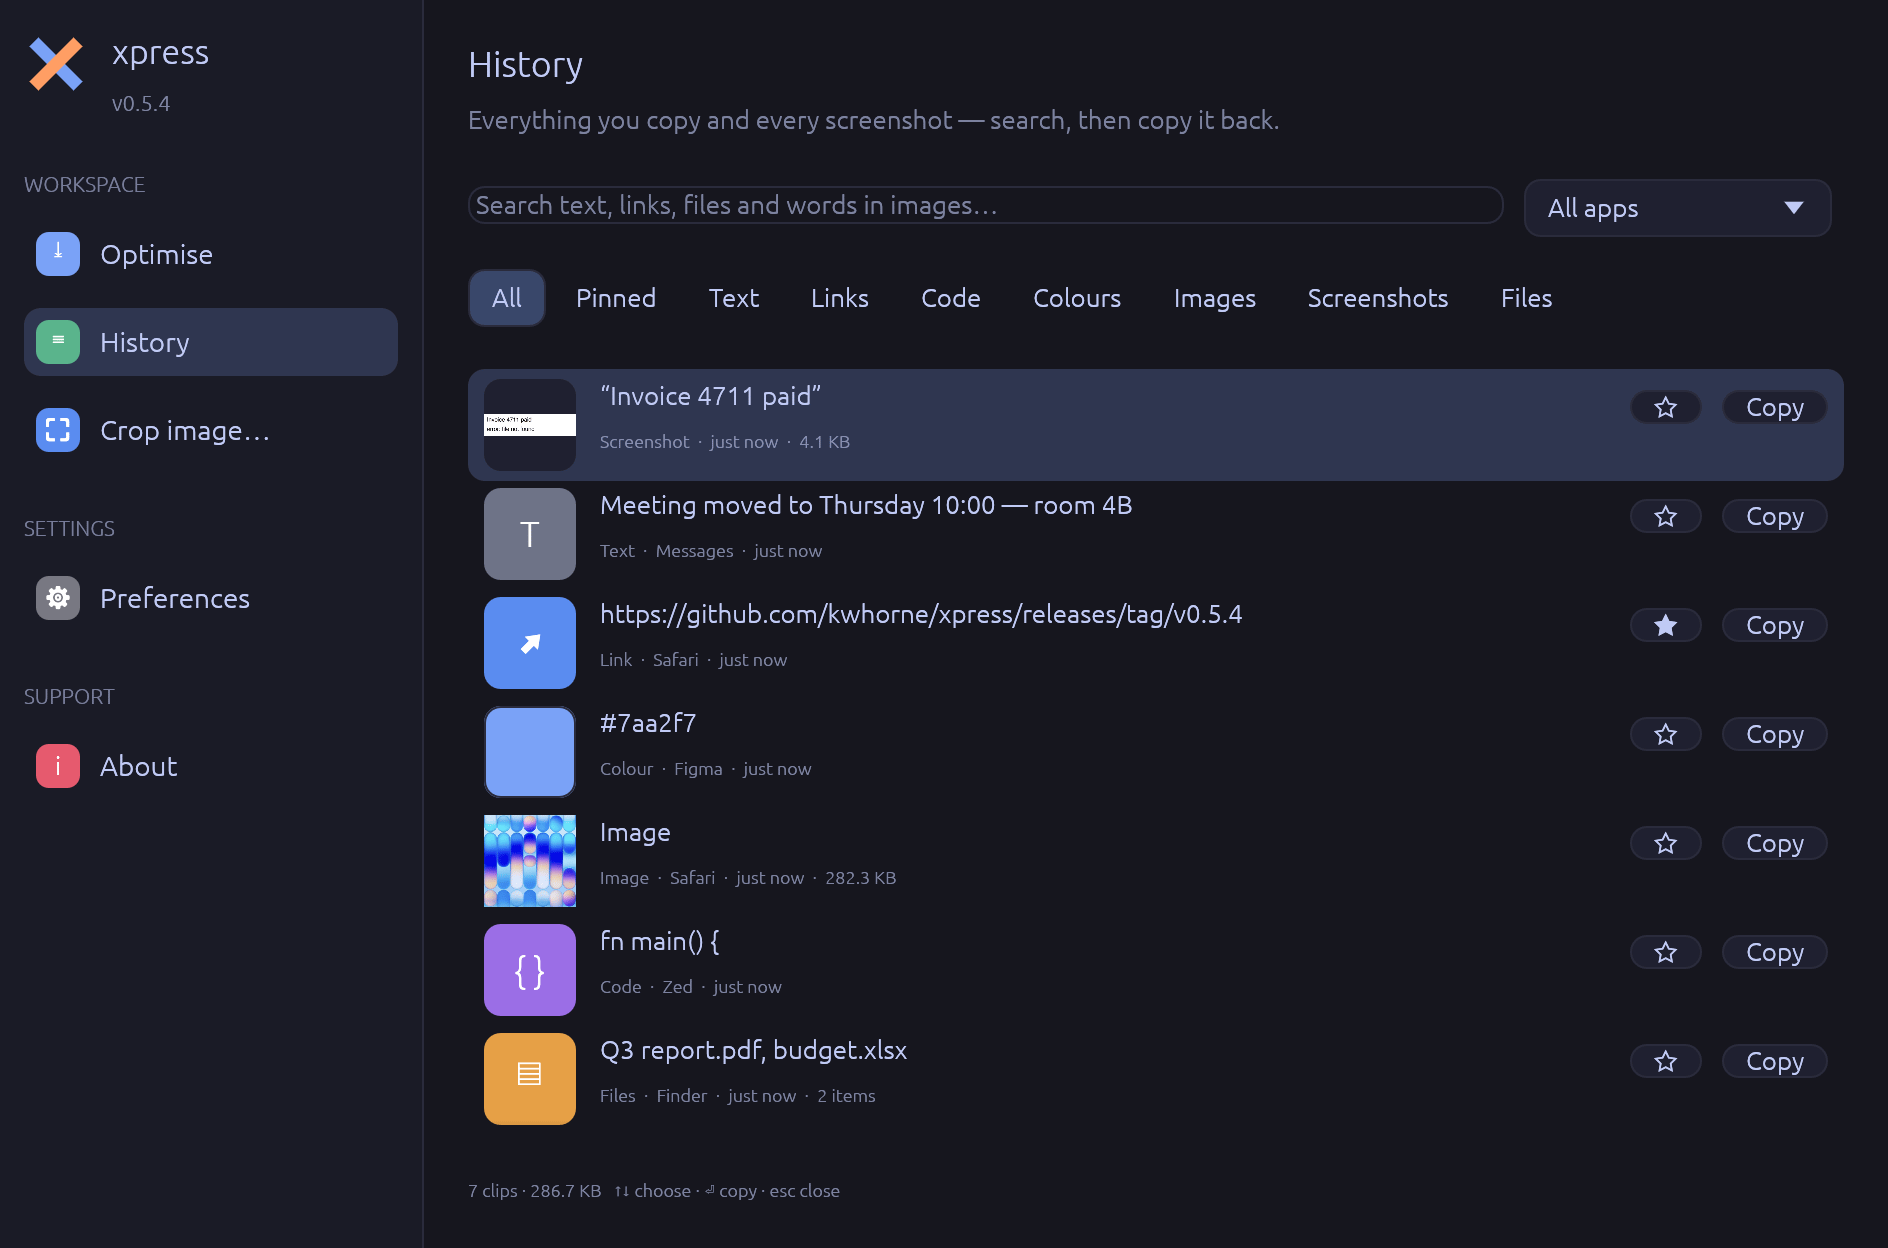
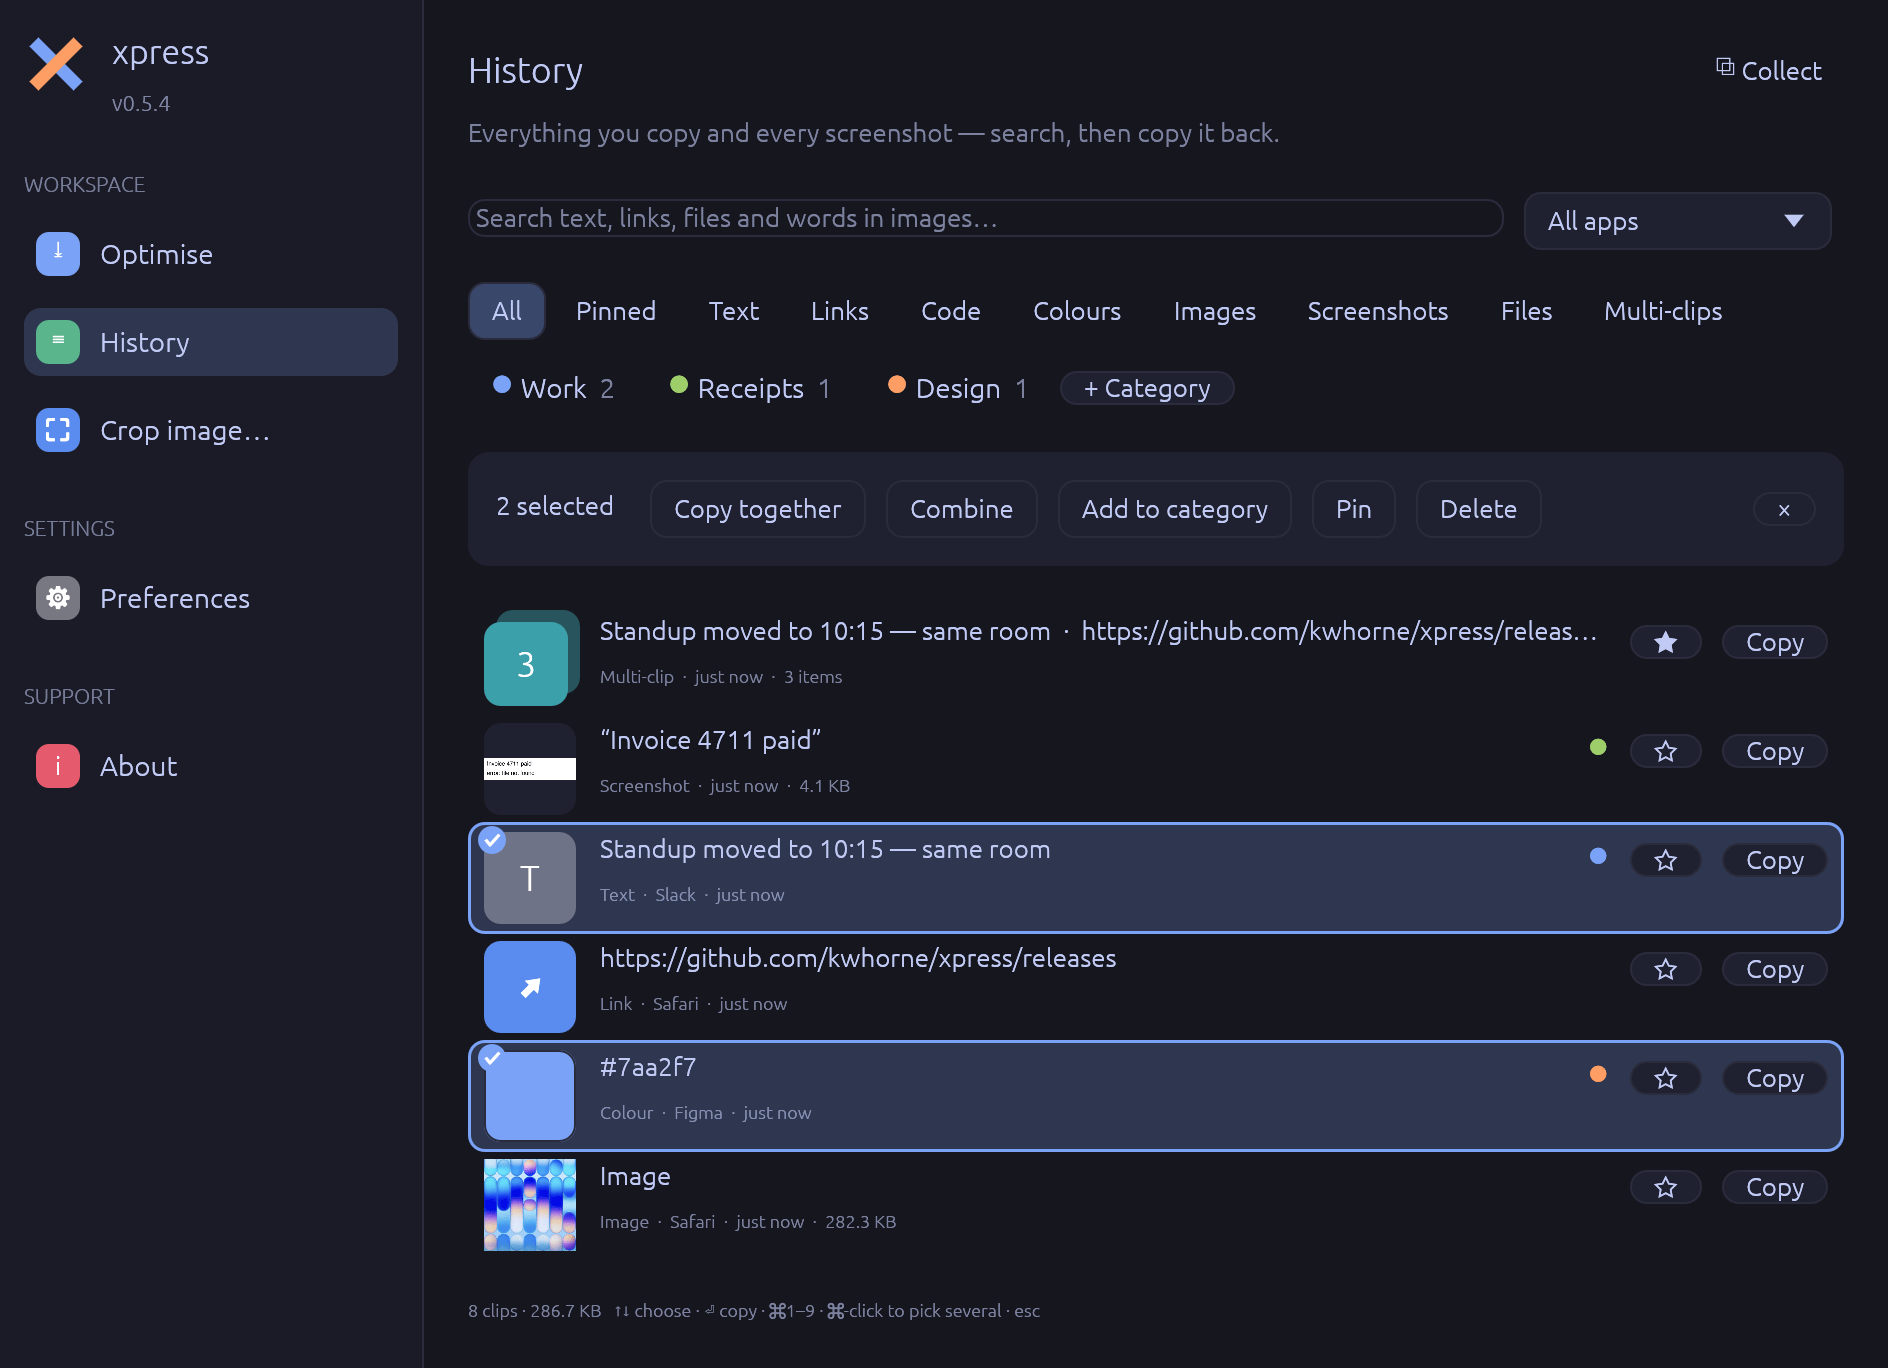
Docs: multi-clips, categories, paste directly

diff --git a/docs/history.md b/docs/history.md
@@ -31,11 +31,12 @@ history opens with the cursor in the search field:
 1. **Type** a few letters — words match by prefix and in any order, so
    `inv 47` finds “Invoice 4711”. Accents don't matter (`cafe` finds “café”).
 2. **↑ / ↓** to choose, **⏎** to copy. xpress hides itself and puts you back in
-   the app you came from — press **⌘V** to paste.
-3. **Esc** clears the search, or closes the window when it's empty.
+   the app you came from — press **⌘V** to paste (or let xpress paste for you,
+   see [Paste directly](#paste-directly)).
+3. **Esc** clears the selection or the search, or closes the window.
 
-Double-clicking a clip does the same as ⏎; **Copy** on a row copies it and
-leaves the window open.
+**⌘1 … ⌘9** copy the first nine clips in one go. Double-clicking a clip does the
+same as ⏎; **Copy** on a row copies it and leaves the window open.
 
 The search covers the text of each clip, the **text recognised in images**,
 file names and paths, and the name of the app it came from.
@@ -63,9 +64,72 @@ line, and *kind · app · when · size*. Copying a clip again moves it to the to
 | Copy | Put it on the clipboard |
 | Copy text in image | Copy the words recognised in a screenshot or image |
 | Open link | Open a link clip in your browser |
+| Show items | For a multi-clip: list what's in it (← Back returns) |
 | Show in Finder | Reveal a copied file, or the stored image |
 | Pin / Unpin | Pinned clips are never removed automatically (also ☆ on the row) |
+| Categories ▸ | Tick the categories it belongs to, or make a new one |
 | Delete | Remove it from the history |
+
+## Several clips at once: multi-clips
+
+A **multi-clip** holds several clips — text, links, images, files, from
+different apps — to paste **all at once**.
+
+**Pick clips and combine them.** **⌘-click** rows to pick them (in the order
+you want them pasted), or **⇧-click** to pick a range. A bar appears:
+
+| Button | Does |
+|--------|------|
+| **Copy together** (or ⏎) | Make a multi-clip of the picked clips and copy it |
+| **Combine** | Make the multi-clip and keep it in the history |
+| **Add to category** | Put all picked clips in a category |
+| **Pin**, **Delete** | For all picked clips |
+| **×** | Clear the selection (or press Esc) |
+
+**Or collect as you go.** Click **⧉ Collect** at the top of History (or choose
+*Collect clips* in the ✕ menu), then copy things in any apps as usual: each copy
+is added to one multi-clip. Click **Done** when you have everything.
+
+**What gets pasted:**
+
+- In a plain text field: all the text, links and file paths, one after another.
+- In rich editors (Mail, Notes, Pages, documents in the browser): the text *and*
+  the images, in order.
+- If every item is a file: all the files — paste in Finder to copy them there.
+- In apps that only take a picture: the first image.
+
+A multi-clip shows how many items it has; right-click → *Show items* lists
+them. Its items stay in the history as clips of their own, and are kept as long
+as the multi-clip is (pin the multi-clip to keep it all). Deleting an item takes
+it out of the multi-clip; deleting the multi-clip leaves the items.
+
+## Categories
+
+Group clips your own way — *Work*, *Receipts*, *Design* — under the kind
+filters. Click a category to show only its clips; click it again for all.
+
+- **+ Category** makes one: a name, a colour, and optionally a rule.
+- **Rules** add clips automatically: *Copied in* an app, of a *Kind*, and/or
+  *Containing* words (also words found inside images — a screenshot of a receipt
+  lands in *Receipts* once its text is recognised). Everything set must match.
+  A new rule also sorts the clips already in the history.
+- **By hand**: right-click a clip → *Categories ▸*, or pick several and *Add to
+  category*.
+- **Right-click a category** to edit or delete it. Deleting a category keeps
+  its clips.
+
+Clips show a coloured dot for each category they're in.
+
+## Paste directly
+
+Normally, choosing a clip puts it on the clipboard and steps aside so you press
+⌘V. With **Paste directly** on (Preferences → Clipboard history), xpress presses
+⌘V for you in the app you came from: **⌃⌘V → type → ⏎** and it's pasted.
+
+macOS only allows this with your permission. The first time you switch it on,
+macOS asks; allow **xpress** under **System Settings → Privacy & Security →
+Accessibility**. Until then, Preferences shows a reminder with an *Open
+Settings* button, and xpress only copies.
 
 ## What's recorded, and what isn't
 
@@ -118,7 +182,7 @@ In the `history` folder next to the config files —
 
 | | |
 |---|---|
-| `history.db` | The clips and the search index (SQLite) |
+| `history.db` | The clips, multi-clips, categories and the search index (SQLite) |
 | `images/` | Copied images and screenshots; PNGs are recompressed losslessly, so they take less room than the originals |
 | `thumbs/` | Small previews |
 
@@ -135,10 +199,12 @@ All in **Preferences → Clipboard history**:
 | Clipboard history | off | Record what you copy |
 | Include screenshots | on | Also record new screenshots |
 | Find text in images | on | Recognise words in images (macOS) |
+| Paste directly | off | Paste the chosen clip into the app you were using (needs Accessibility permission) |
 | Keep history | 1 month | How long unpinned clips are kept |
-| Clear… | | Delete all unpinned clips |
+| Clear… | | Delete all unpinned clips (and multi-clips that aren't pinned) |
 
 ## Platforms
 
 Everything above is for **macOS**. On Linux the app records copied **text**
-only, without the source app, and there's no text recognition.
+only, without the source app; there's no text recognition, a multi-clip is
+pasted as text, and *Paste directly* isn't available.

diff --git a/docs/gui.md b/docs/gui.md
@@ -16,6 +16,7 @@ xpress has no Dock icon — look for the **✕** in the menu bar. Its menu has:
 | Open xpress | ⌘⇧X | Bring the window to the front |
 | Optimise clipboard | ⌘⇧O | Optimise the image you copied, and put the smaller one back on the clipboard |
 | Clipboard history | ⌃⌘V | Search what you copied and your screenshots, and copy it back ([History](history.md)) |
+| Collect clips | | Add everything you copy to one multi-clip, to paste together ([multi-clips](history.md#several-clips-at-once-multi-clips)) |
 | Check for updates | | Look for a new version now |
 | Quit xpress | | Quit (closing the window only hides it) |
 
@@ -71,8 +72,9 @@ Finder.
 ## History
 
 Everything you copied and every screenshot you took — once you turn it on —
-with search (including the words inside images), filters by kind and app, and
-pinning. ⌃⌘V opens it from any app. See
+with search (including the words inside images), filters by kind, app and your
+own categories, pinning, multi-clips to paste several things at once, and
+optionally pasting straight into the app you were using. ⌃⌘V opens it from any app. See
 **[Clipboard and screenshot history](history.md)**.
 
 ## Crop image…
@@ -97,7 +99,7 @@ For crops to an exact size or aspect ratio, or batches, use
 | Aggressive by default | off | Start with the aggressive preset. |
 | Float on top | off | Keep the window above other windows. |
 | Default pipeline | `crop(longEdge: 2000) -> convert(to: webp)` | Used when *Pipeline* is switched on. |
-| Clipboard history | off | Record what you copy and your screenshots — with *Include screenshots*, *Find text in images*, *Keep history* and *Clear…*. See [History](history.md#settings). |
+| Clipboard history | off | Record what you copy and your screenshots — with *Include screenshots*, *Find text in images*, *Paste directly*, *Keep history* and *Clear…*. See [History](history.md#settings). |
 
 Settings — these and the compression slider, *Aggressive*, *Convert to* and
 *Pipeline* on the Optimise screen — are saved automatically and restored the

diff --git a/CHANGELOG.md b/CHANGELOG.md
@@ -16,6 +16,19 @@ to [Semantic Versioning](https://semver.org/spec/v2.0.0.html).
   private, and copies made in password managers, are never recorded. Kept for
   a chosen time (default a month, pinned clips forever, at most 2 GB) in a
   local SQLite database. See [docs/history.md](docs/history.md).
+- **Multi-clips**: pick several clips (⌘-click, ⇧-click) and *Copy together*,
+  or *Collect* everything you copy into one — text, links, images and files
+  from different apps, pasted at once (plain text in text fields; text and
+  images in rich editors; all files in Finder).
+- **Categories** for the clipboard history, with colours and optional rules
+  (source app, kind, words — also words found in images) that sort new and
+  existing clips automatically; filter by category.
+- **Paste directly**: choose a clip and xpress pastes it into the app you were
+  using (needs the Accessibility permission).
+- ⌘1–⌘9 copy the first nine clips; *Collect clips* in the menu-bar menu.
+
+### Fixed
+- Preferences scroll when they're taller than the window.
 
 ## [0.5.4] - 2026-10-04
 

diff --git a/docs/troubleshooting.md b/docs/troubleshooting.md
@@ -92,6 +92,18 @@ private. Screenshots are picked up from the folder macOS saves them to (set in
 the Screenshot app's *Options*); it can take a few seconds after the floating
 thumbnail disappears.
 
+**Paste directly doesn't paste.**
+xpress needs the Accessibility permission: System Settings → Privacy & Security
+→ Accessibility → switch on *xpress* (remove and re-add it if it's listed but
+still doesn't work). xpress presses the key where *V* is on a QWERTY keyboard; with
+a layout that moves V (plain Dvorak), use a “⌘ QWERTY” variant of it, or paste
+yourself with ⌘V.
+
+**Only the first part of a multi-clip is pasted.**
+Some apps take only one kind of content. Plain text fields get all the text;
+rich editors get text and images; a pure picture field gets the first image.
+Right-click the multi-clip → *Show items* to copy items one by one.
+
 **A screenshot isn't found by its text.**
 Text recognition needs *Find text in images* on, runs once when the image is
 recorded, and reads printed text best; tiny or handwritten text may be missed.

diff --git a/docs/architecture.md b/docs/architecture.md
@@ -77,7 +77,9 @@ working file, and place the final artifact with the same `finish` rules (see
   `pasteboard.rs` (NSPasteboard: read/write, private-content markers, front
   app), `capture.rs` (a background thread polling the pasteboard's change
   count and the screenshot folder, recording into `history` and running OCR)
-  and `history_ui.rs` (the view). UI tests drive it headlessly with
+  and `history_ui.rs` (the view: filters, categories, multi-select,
+  multi-clips); `autopaste.rs` presses ⌘V in the previous app (Accessibility
+  permission, CoreGraphics events). UI tests drive it headlessly with
   `egui_kittest`; pasteboard tests use a private pasteboard, never the user's
   clipboard.
 

diff --git a/docs/sharing-and-privacy.md b/docs/sharing-and-privacy.md
@@ -77,7 +77,8 @@ metadata at all.
 The app's [clipboard history](history.md) is **off until you turn it on**,
 keeps everything on your Mac (`history/` in the config folder), never records
 content that password managers mark as private, and ignores copies made in
-password managers. Text recognition in images runs on the Mac too. Delete single
+password managers. Text recognition in images runs on the Mac too. *Paste directly* uses the
+Accessibility permission only to press ⌘V in the app you return to. Delete single
 clips with right-click → *Delete*, or everything unpinned with *Clear…* in
 Preferences.
 
